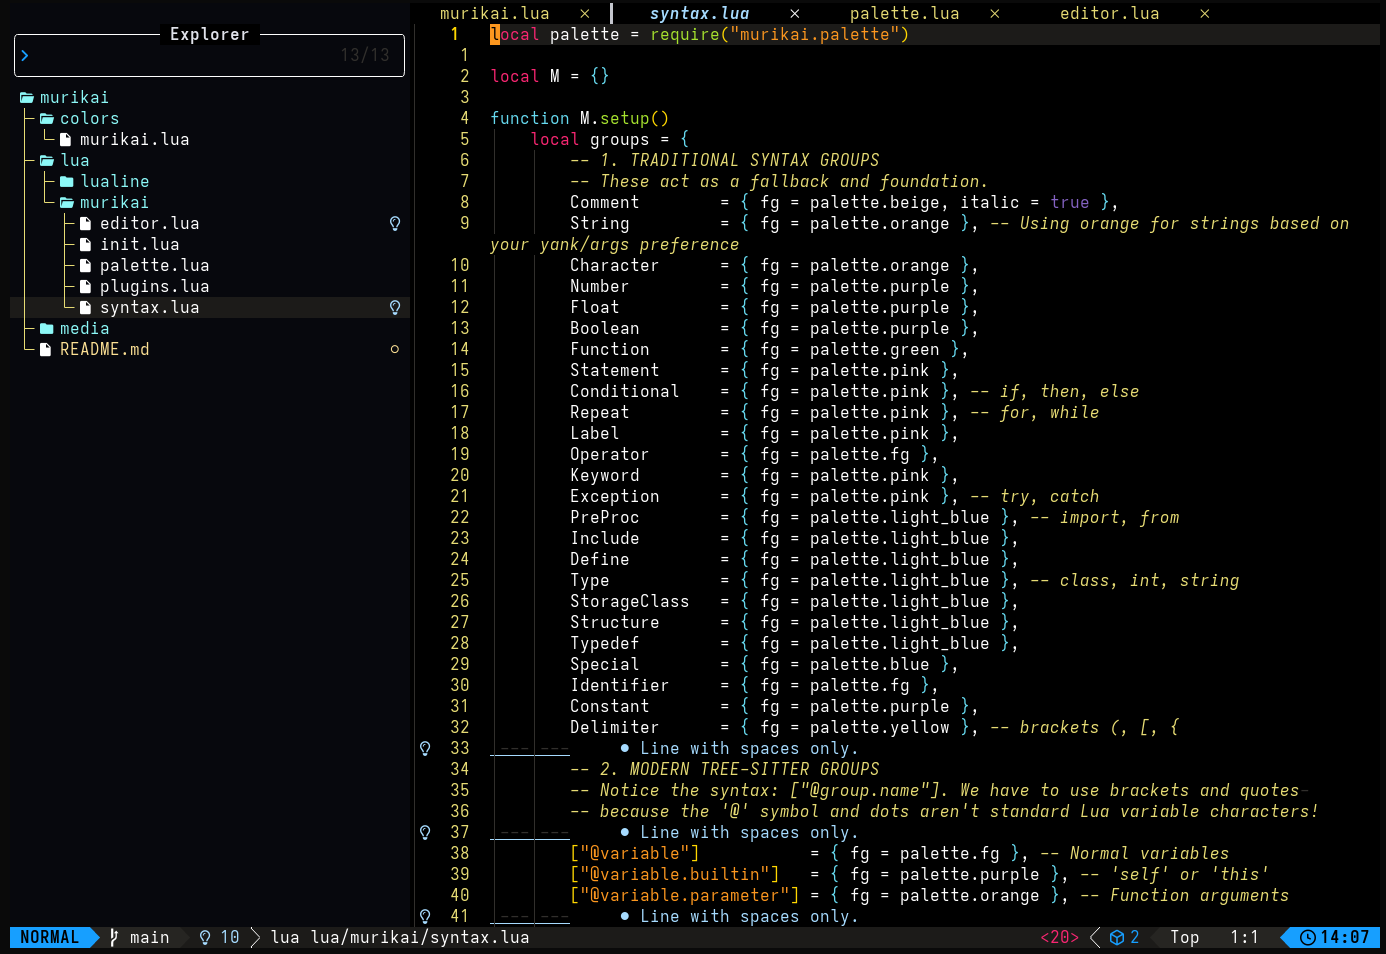
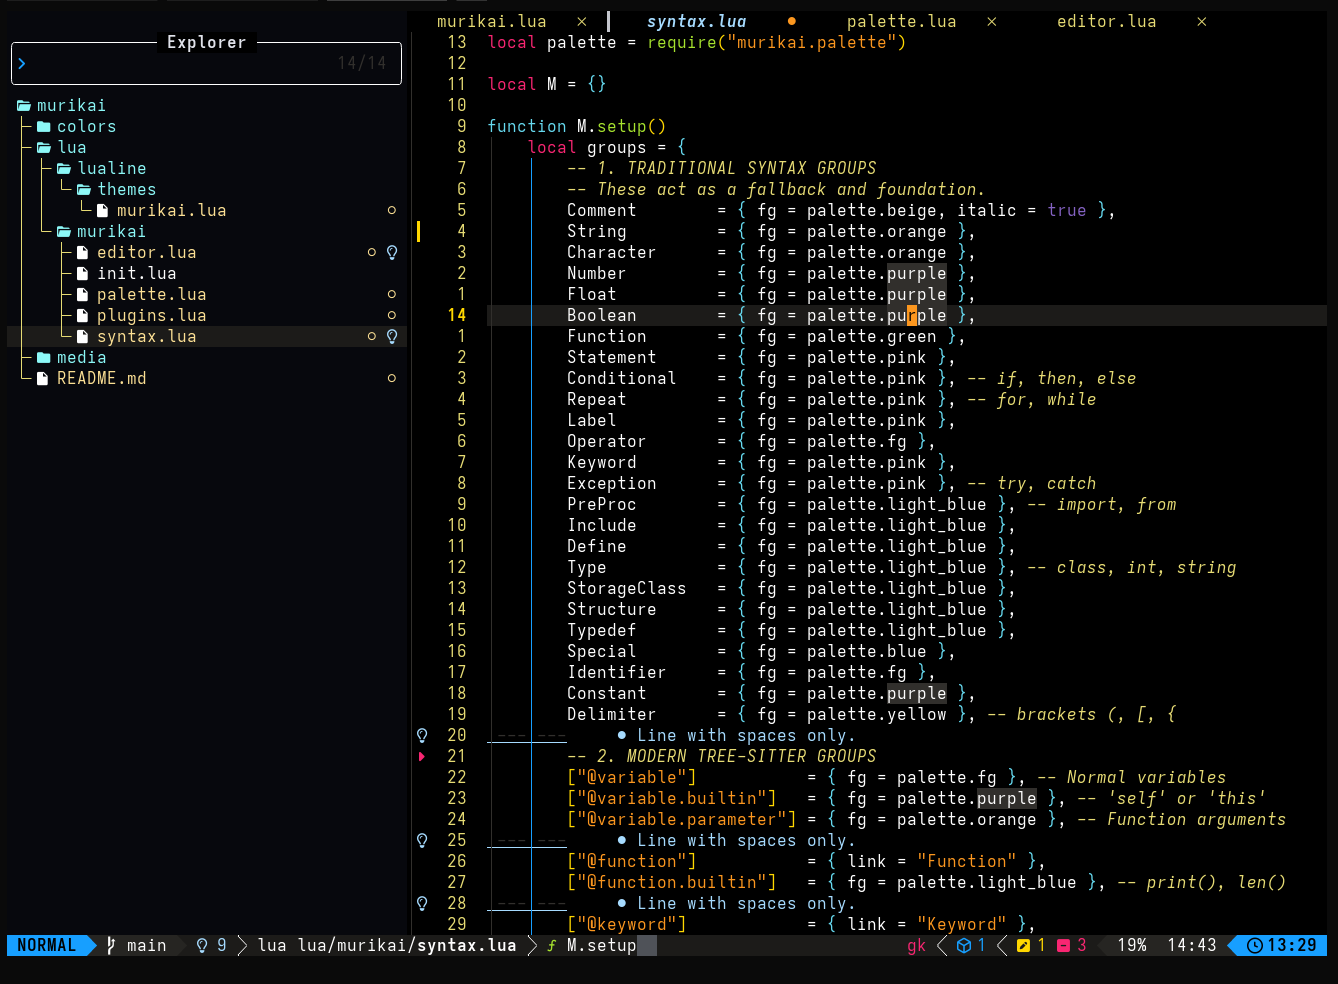
chore: novas cores para as tabs

diff --git a/README.md b/README.md
@@ -4,7 +4,7 @@ Um tema moderno, modular e desenvolvido inteiramente em Lua puro para o Neovim, 
 
 ![Murikai Showcase](media/screenshot.png)
 
-## ✨ Características
+## Características
 
 - **100% Lua Puro:** Adeus ao Vimscript legado. Arquitetura totalmente moderna, limpa e veloz.
 - **Arquitetura Modular:** Separação clara de responsabilidades (`palette`, `editor`, `syntax`, `plugins`).
@@ -13,7 +13,7 @@ Um tema moderno, modular e desenvolvido inteiramente em Lua puro para o Neovim, 
 - **Suporte Nativo a Tree-sitter:** Destaque de código extremamente preciso e granular.
 
 ## Plugins Suportados Nativamente
-O Murikai vem com ajustes visuais finos para as ferramentas mais utilizadas no ecossistema LazyVim:
+O Murikai vem com ajustes visuais finos para alguns plugins LazyVim:
 
 - Neo-tree (Aba lateral e ícones de status do Git)
 